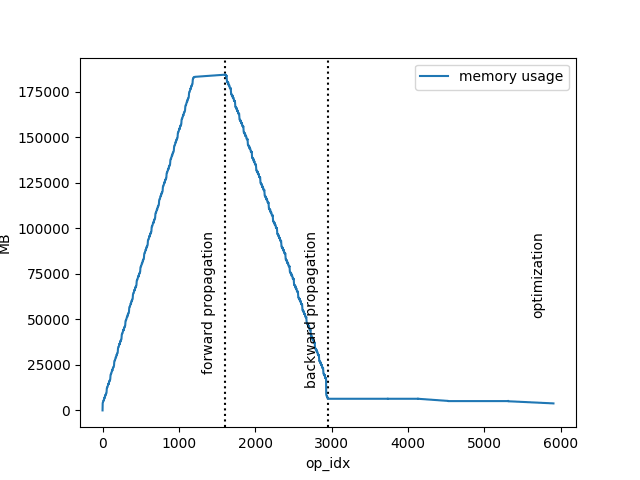
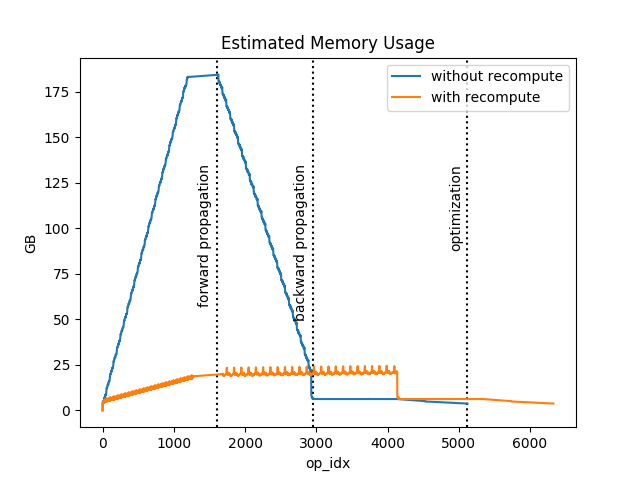
update readme of recompute demo

diff --git a/examples/recompute/bert/README.md b/examples/recompute/bert/README.md
@@ -78,15 +78,7 @@ Baseline:
 |:---:|:---:|
 |1.094 steps/s|0.848 steps/s|
 
-- Estimated memory usage for batch size 45000:
-
-without recompute:
+- Estimated memory usage for Bert-large with batch size 72000:
 
 ![without recompute](https://github.com/mapingshuo/Fleet/blob/recompute_examples/examples/recompute/bert/image/memory_anal.png)
-
-with recompute:
-
-![with recompute](https://github.com/mapingshuo/Fleet/blob/recompute_examples/examples/recompute/bert/image/memory_anal_recompute.png)
-
-
 
